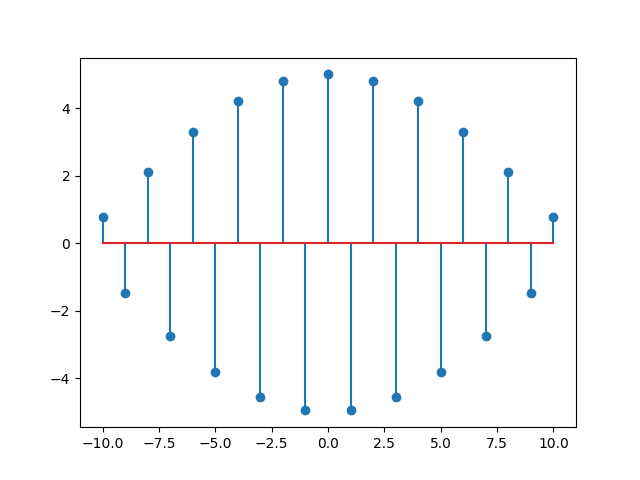
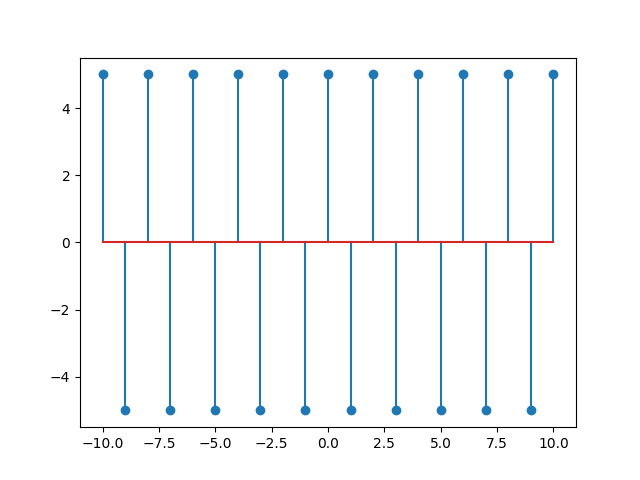
Add Arduino keypad code.

diff --git a/Micro Lab/keypad.c b/Micro Lab/keypad.c
@@ -1,0 +1,29 @@
+#include <Wire.h>
+#include <LiquidCrystal.h>
+#include <keypad.h>
+
+const LCDROWNUM = 4;
+const LCDCOLNUM = 3;
+
+char hexaKeys[LCDROWNUM][LCDCOLNUM] = {
+    {'1', '2', '3'}, 
+    {'4', '5', '6'},
+    {'7', '8', '9'}, 
+    {'*', '0', '#'}
+};
+
+byte rowPins[LCDROWNUM] = {5,4,3,2};
+byte colPins[LCDCOLNUM] = {8,7,6};
+
+Keypad keypad = Keypad(makeKeymap(hexaKeys), rowPins, colPins, LCDROWNUM, LCDCOLNUM);
+
+void setup(){
+    Serial.begin(9600);
+}
+
+void loop(){
+    char key = keypad.getKey();
+    if (key){
+        Serial.println(key); 
+    }
+}

diff --git a/Signal/HW1/Q3/Q3.py b/Signal/HW1/Q3/Q3.py
@@ -1,0 +1,15 @@
+import numpy as np
+import matplotlib.pyplot as plt
+
+t = np.arange(-10, 10, 0.001)
+
+gaussian_noise = 0.008 * np.random.normal(0, 1, 20000)
+y = np.heaviside(t + 2, 1) - np.heaviside(t - 2, 1)
+y_with_noise = np.heaviside(t + 2, 1) - np.heaviside(t - 2, 1) + gaussian_noise
+
+plt.plot(t, y)
+plt.savefig('y.png')
+
+plt.plot(t, y_with_noise)
+plt.savefig('y_with_noise.png')
+

diff --git a/Signal/HW1/Q1/b.py b/Signal/HW1/Q1/b.py
@@ -1,9 +1,9 @@
-import matplotlib.pyplot as plt
 import numpy as np
+import matplotlib.pyplot as plt
 
 t = np.arange(-5, 5, 0.001)
 y = (np.exp(-t) * np.heaviside(t , 1)) + np.cos(t - 2) 
 
 plt.plot(t , y)
-plt.savefig('Q1b.png')
+plt.savefig('b.png')
 plt.show()

diff --git a/Signal/HW1/Q1/c.py b/Signal/HW1/Q1/c.py
@@ -1,5 +1,5 @@
-import matplotlib.pyplot as plt
 import numpy as np
+import matplotlib.pyplot as plt
 
 t = np.arange(-5, 5, 0.001)
 x = [0] * 10000
@@ -15,4 +15,4 @@ while index < 10000:
 
 
 plt.plot(t, x)
-plt.savefig('Q1c.png')
+plt.savefig('c.png')

diff --git a/Signal/HW1/Q1/a.py b/Signal/HW1/Q1/a.py
@@ -1,8 +1,8 @@
-import matplotlib.pyplot as plt
 import numpy as np
+import matplotlib.pyplot as plt
 
 t = np.arange(-5, 5, 0.001)
 y = np.exp(-4 * t) * np.heaviside(t , 1)
 plt.plot(t , y)
 
-plt.savefig('Q1a.png')
+plt.savefig('a.png')

diff --git a/Signal/HW1/Q2/d.py b/Signal/HW1/Q2/d.py
@@ -5,5 +5,5 @@ n = np.arange(-10, 11)
 x = 5 * np.cos(3 * n)
 
 plt.stem(n, x)
-plt.savefig('c.png')
+plt.savefig('d.png')
 plt.show()
